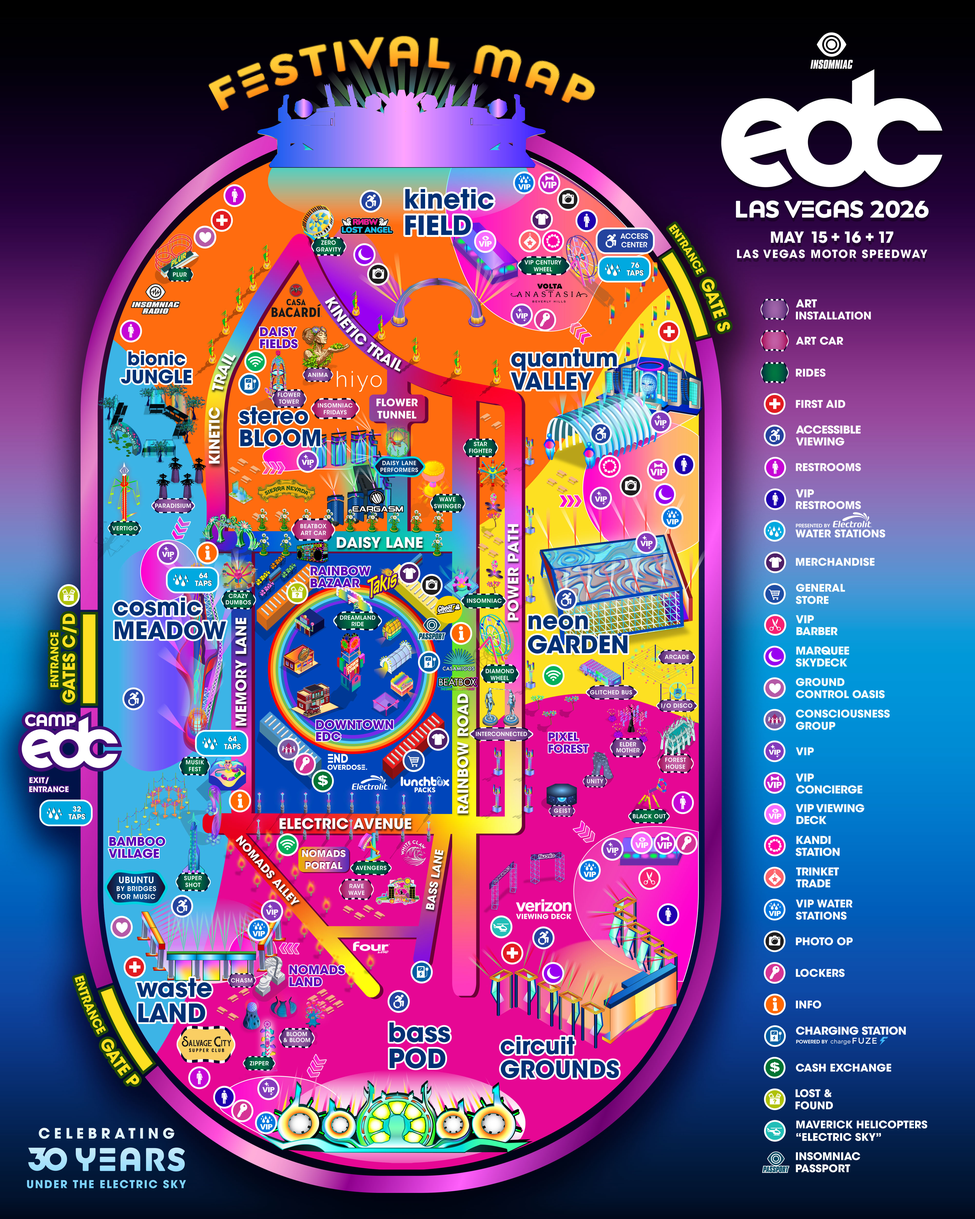
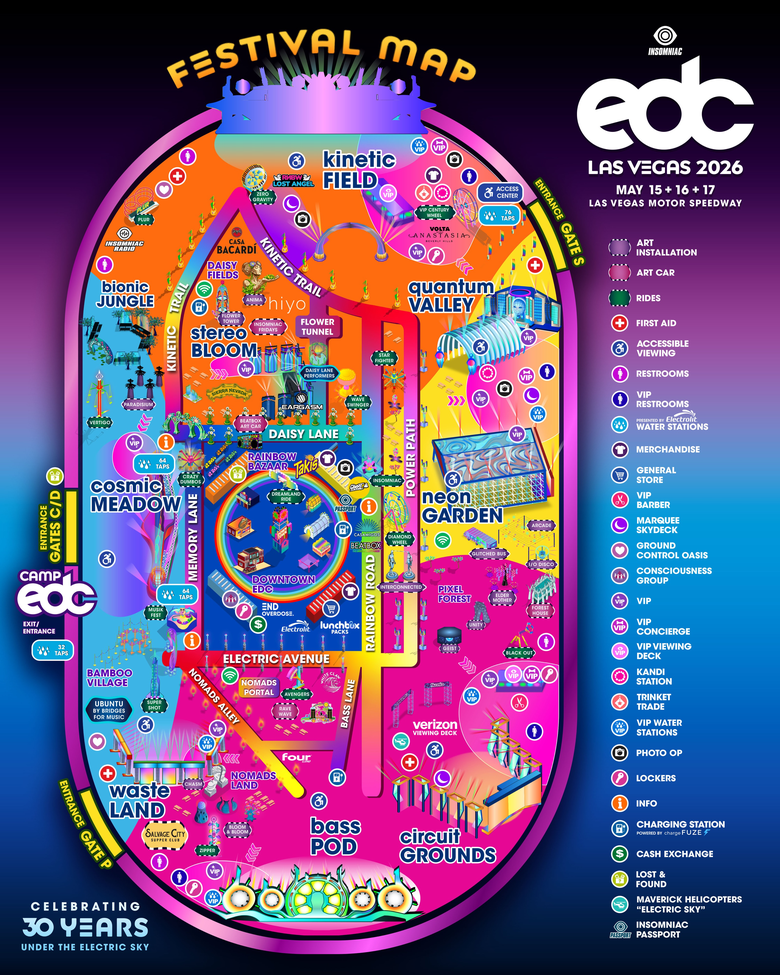
v252: resize map to 3200x4000 (under iOS Safari decode cap, no silent downsampling)

diff --git a/sw.js b/sw.js
@@ -22,8 +22,8 @@
 // Browsers detect new SWs by sw.js byte changes, so the version MUST
 // be a literal in this file (not imported) — otherwise the browser
 // won't see the SW as "changed" and won't install the update.
-const SHELL_VERSION  = 'myraverlife-shell-v251';
-const STICKY_VERSION = 'myraverlife-sticky-v2';
+const SHELL_VERSION  = 'myraverlife-shell-v252';
+const STICKY_VERSION = 'myraverlife-sticky-v3';
 
 const APP_SHELL = [
   './',

diff --git a/version.js b/version.js
@@ -4,4 +4,4 @@
 //
 // `self` is the global in both window contexts and service workers,
 // so this file works for both via `<script src>` and `importScripts()`.
-self.APP_VERSION = 'v251';
+self.APP_VERSION = 'v252';
